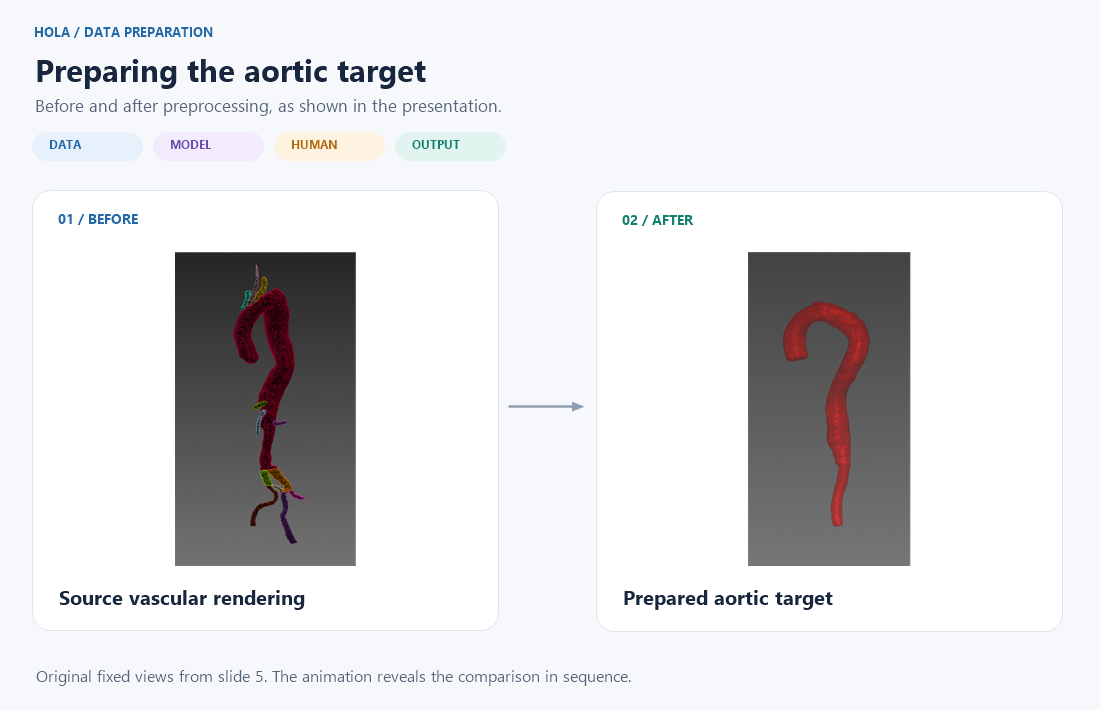
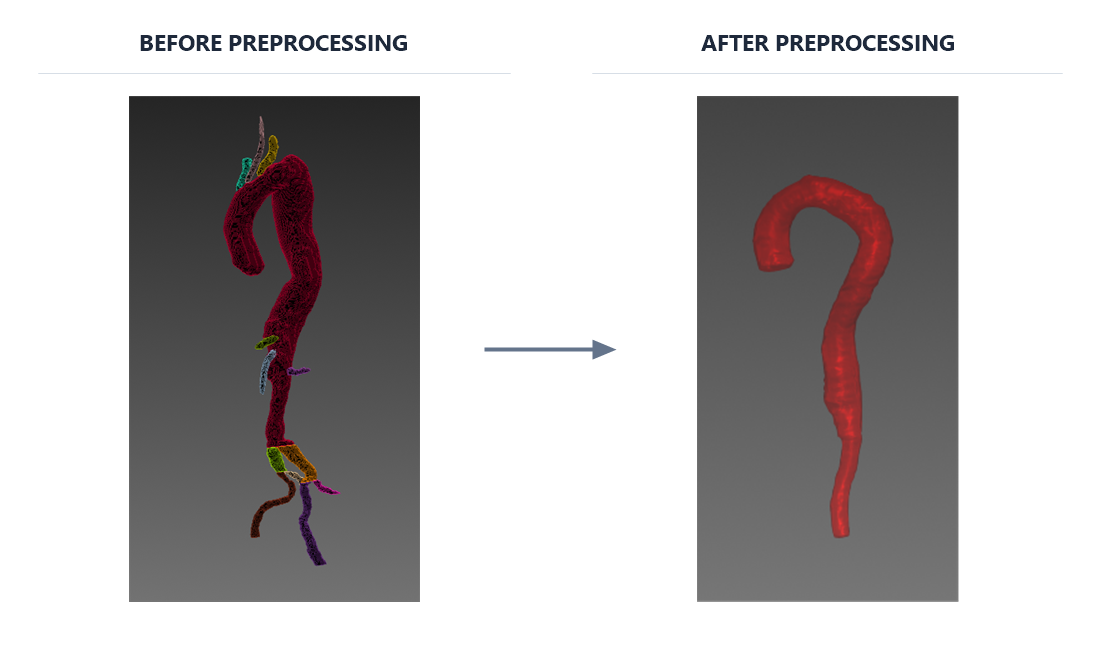
docs: refresh aorta and preprocessing showcase visuals

diff --git a/docs/images/README.md b/docs/images/README.md
@@ -1,5 +1,15 @@
 # Presentation image sources
 
+## Original README schematics and third-party credits
+
+`aorta-schematic.svg` and `segmentation-schematic.svg` are original vector drawings created for the root README. They use simplified geometry, contain no patient data or borrowed image pixels, and illustrate concepts rather than model outputs. They are retained as earlier schematic alternatives; the root README now uses the author-supplied crimson aorta illustration.
+
+The project author identifies the rotating anatomy in `aorta-anatomy.gif` (slide 2, `image2.gif`) as originating from **Imran et al., CIS-UNet (2024)**: [paper](https://doi.org/10.1016/j.compmedimag.2024.102470), [source repository](https://github.com/mirthAI/CIS-UNet). The same anatomy appears in `segmentation-explained.gif` and `segmentation-explained-still.png`. These legacy files and the embedded presentation copy remain; they are not displayed in the root README. Figure-specific reuse permission has not been verified. The upstream repository has an [MIT licence](https://github.com/mirthAI/CIS-UNet/blob/main/LICENSE), but its applicability to the supplied figure has not been established.
+
+The mappings below describe extraction provenance; inclusion in the presentation does not establish authorship or a reuse licence for an image.
+
+## Extracted presentation assets
+
 These images were extracted from `ppt/media/` in [HOLA_Viva_Presentation.pptx](../presentations/HOLA_Viva_Presentation.pptx). Original raster files are copied without changing pixels or resolution.
 
 | Local asset | Embedded source | Slide | Content |
@@ -27,7 +37,7 @@ The root README now focuses on the project and development process. Previous res
 
 ## Animated project walkthrough
 
-The animations explain the project using labels checked against the current scripts. The introduction and preprocessing comparison retain presentation images; the later workflow diagrams use text and icons. They do not show a live model run, measured training progression, or newly generated patient results. They are looping GIFs so the README can display motion without JavaScript. Each new diagram also has a `-still.png` version for readers who prefer a static figure.
+The animations explain the project using labels checked against the current scripts. The legacy introduction and the preprocessing comparison retain presentation images; the later workflow diagrams use text and icons. They do not show a live model run, measured training progression, or newly generated patient results. They are looping GIFs. The root README uses the supplied crimson illustration for the introduction and anatomy. Workflow animations remain displayed with their still versions; preprocessing is displayed as a static comparison.
 
 | Asset | Source and purpose |
 | --- | --- |
@@ -36,8 +46,20 @@ The animations explain the project using labels checked against the current scri
 | `hola-feedback.gif` | Progressive reveal of CT input, mask prediction, quality estimation, human review, and separate correction/finish branches. Earlier steps remain visible. |
 | `development-segmentation.gif` | Six-step development flow checked against `SplitPatients.py`, `Train.py`, `aorta_data.py`, and `Clicksim.py`. |
 | `development-quality.gif` | Quality-network workflow checked against `Completeness.py` and `Completeness_classifier.py`, followed by the prototype interaction concept. |
-| `preprocessing-comparison.gif` | Original before/after images from slide 5 revealed in sequence: before image, connecting arrow, then after image. The source images have fixed viewing angles; this is not a 3D turntable render. |
+| `preprocessing-comparison.gif` | Earlier animated comparison retained as a legacy asset; no longer displayed in the README. |
 
-The diagrams were rendered with System.Drawing. Workflow cards and connectors appear progressively, with a four-second pause on the complete flow before restarting. The linked still images show the complete diagrams. The introduction retains its existing animation; source photographs keep their original geometry. The existing before/after images cannot support a faithful new 3D rotation without the corresponding volume, mesh, or recorded turntable footage.
+The animated diagrams were rendered with System.Drawing. Workflow cards and connectors appear progressively, with a four-second pause on the complete flow before restarting. The linked still images show the complete diagrams. Source photographs keep their original geometry. The existing before/after images cannot support a faithful new 3D rotation without the corresponding volume, mesh, or recorded turntable footage.
 
 Public dataset source links are listed next to the corresponding rows in the root README. The local `base` cohort's public/private status is not established by the code or slides and is marked unconfirmed.
+
+## Current supplied-illustration visuals
+
+- `aorta-crimson.png` is an unchanged copy of the project author's supplied `Realistic crimson aorta with branching vessels.png`.
+- Legacy `aorta-crimson-motion.gif` (no longer displayed) applies a gentle, looping in-plane rotation of up to three degrees to that illustration, retaining its dark background. It is a 2D presentation animation, not a generated view of hidden anatomy. `aorta-crimson-still.png` is its static counterpart.
+- `segmentation-intro.gif` combines the original CT and overlay images with the static transparent aorta cutout on a white canvas. The aorta does not rotate; only the step indicators animate. The duplicate section heading and explanatory footer have been removed; only the three step labels remain. `segmentation-intro-still.png` is its static counterpart.
+- `preprocessing-comparison-still.png` shows the original before/after renderings together on a white canvas, with no transition, sequence caption, or footer. The root README displays this PNG directly.
+
+These new assets contain no frames from the legacy CIS-UNet anatomy animation. The existing figure credits above continue to identify the earlier assets.
+
+- `aorta-transparent.png` is the static cutout made with the built-in imagegen tool. Section 2 displays this transparent PNG at a compact width of 240 pixels. `aorta-white.png` is the earlier white-backed version, no longer displayed.
+- Background removal prompt: Remove only the black background and red background glow to create an actual transparent alpha PNG cutout. Preserve the aorta, thin branching vessels, orientation, shape, coloring, texture, highlights and composition. No rotation, labels, new objects, shadow or glow outside the vessel.
